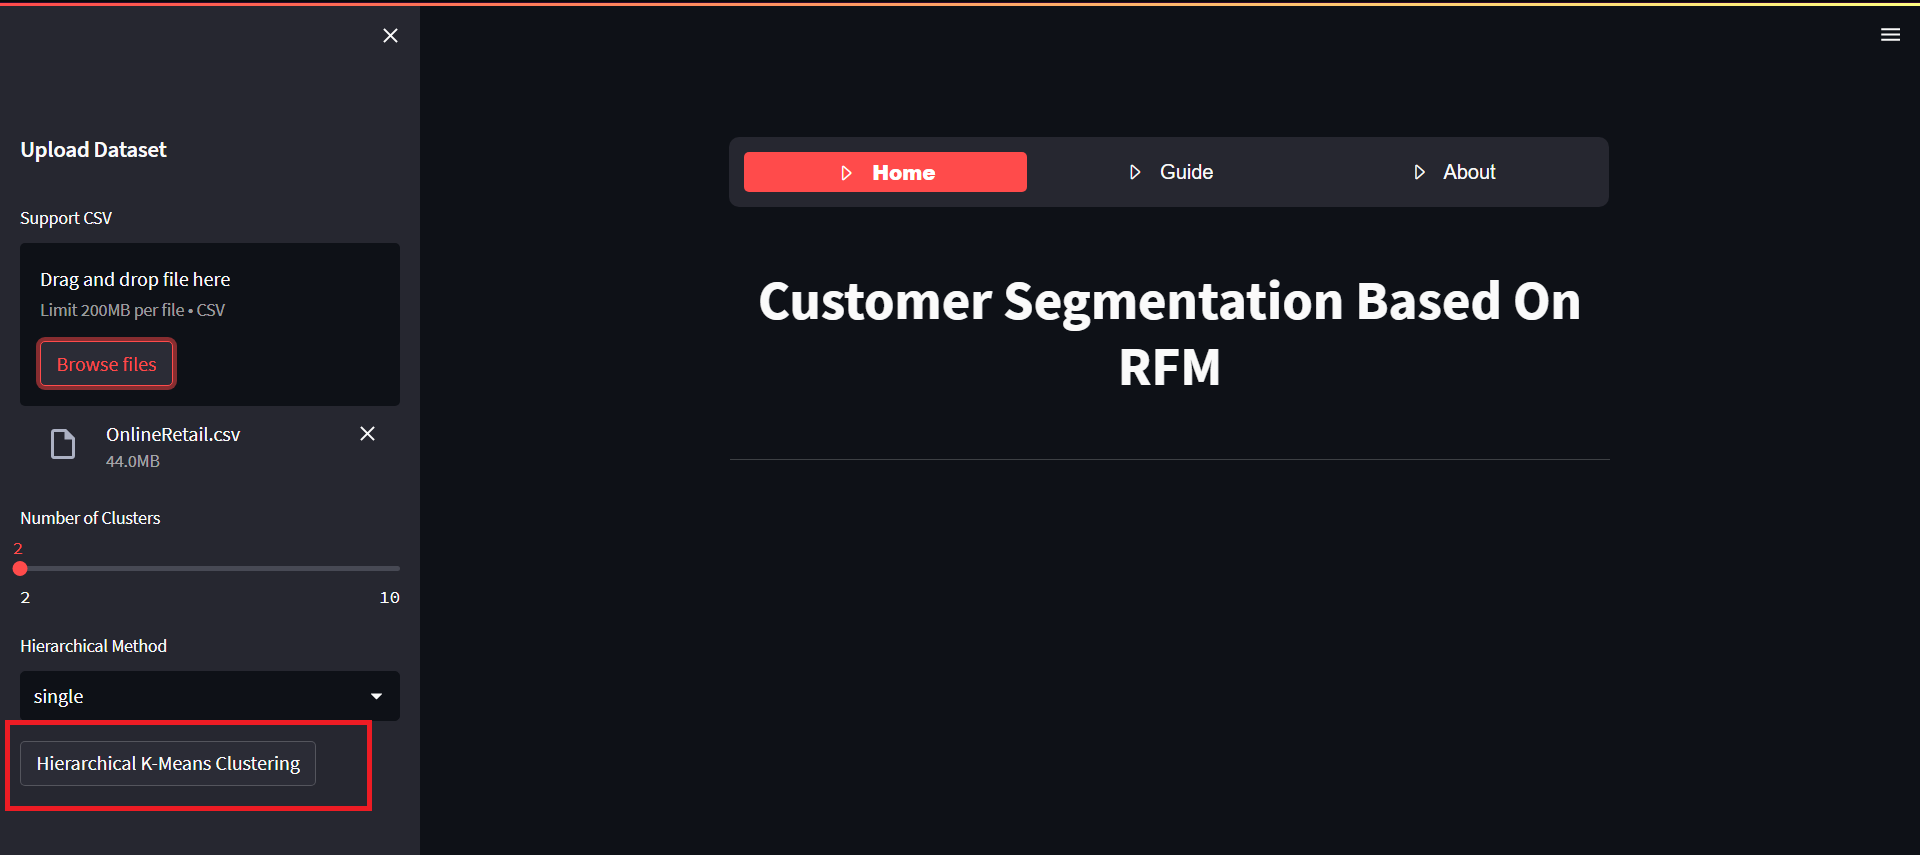
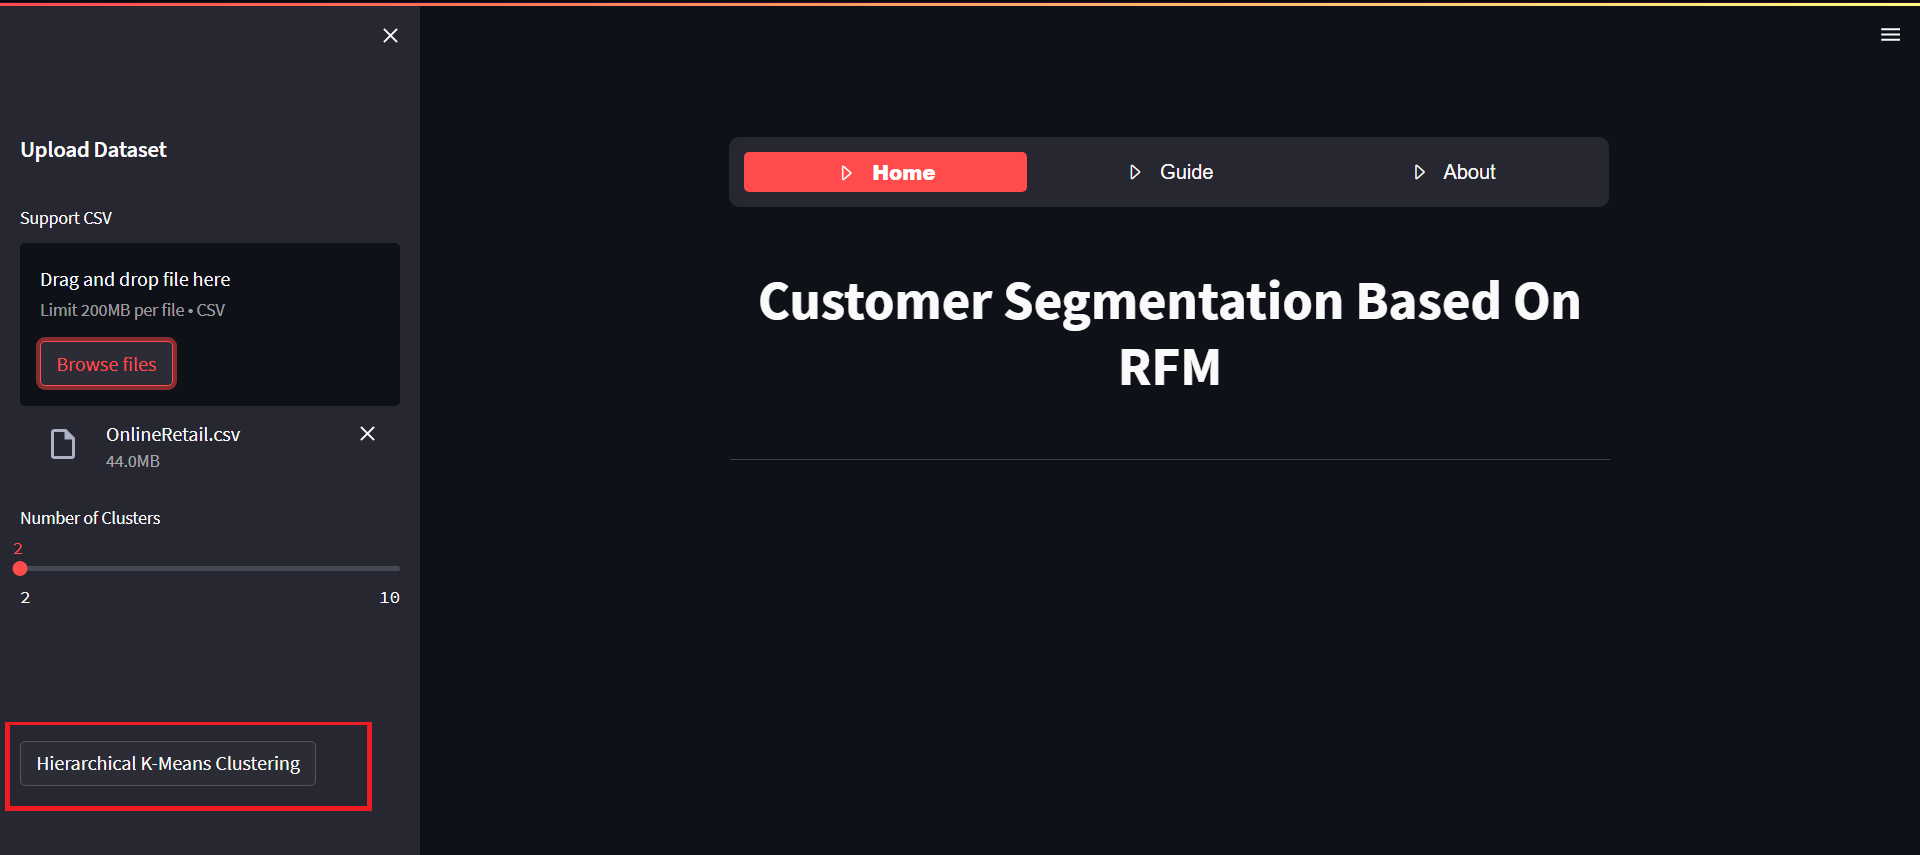
Update Cosmetics and output silhouette

Changed region(s): [[0.0, 0.7298, 0.2188, 0.8515]]

diff --git a/Skripsi.py b/Skripsi.py
@@ -249,7 +249,7 @@ def main():
               cutTree = cut_tree(_hierarchicalClustering, n_clusters=k).reshape(-1,)
 
               # Tab function 
-              tab1, tab2, tab3, tab4 = st.tabs(['Dendogram Hierarchical Clustering', 'Silhouette Score', 'RFM Boxplot', 'RFM Analysis'])
+              tab1, tab2, tab3, tab4 = st.tabs(['Dendrogram Hierarchical Clustering', 'Silhouette Score', 'RFM Boxplot', 'RFM Analysis'])
               # Dendogram
               with tab1:
                 st.header(hierarchical_method + ' Method')
@@ -344,7 +344,7 @@ def main():
                     y_lower = y_upper + 10  # 10 for the 0 samples
                     
                   # st.text("For n_clusters={0}, the silhouette score is {1}".format(num_clusters, silhouette_avg))
-                  ax1.set_title("The silhouette plot for the various clusters.")
+                  ax1.set_title("The silhouette plot for number of clusters {0}.".format(num_clusters))
                   ax1.set_xlabel("The silhouette coefficient values")
                   ax1.set_ylabel("Cluster label")
 
@@ -368,8 +368,12 @@ def main():
                 st.pyplot(fig_Silh) 
 
                 # DataFrame
-                st.dataframe(silhouette_df)
-                 
+                # Hide Index Dataframe
+                st.dataframe(silhouette_df.style.hide(axis='index'))
+                silhouette_max = silhouette_df.iloc[:,1].max()
+                silhouette_opt = silhouette_df.loc[silhouette_df['Silhouette Score'] == silhouette_max]
+                opt_clt = silhouette_opt.iloc[0,0]
+                st.write('Optimal clusters is', str(opt_clt))
 
               # Region show plot
               with tab3:
@@ -476,7 +480,6 @@ def main():
                         mapping_rfm = 'then cluster {0} is Frequent'.format(i)
                     st.write(mapping_rfm)
 
-
               # Region Sidebar continue
               if st.sidebar.checkbox(label = 'Show Data'):
                   st.markdown("""---""")
@@ -486,7 +489,7 @@ def main():
                   # Download output data as csv
                   csv_RFM = convert_df(rfm)
                   st.sidebar.download_button(label = 'Save Data', data=csv_RFM, file_name='RFM_Hkmeans.csv', mime='text/csv')
-
+              
     
     if menu == 'Guide':
       st.markdown("<h2 style='text-align: center;'>User Manual Guide</h2>", unsafe_allow_html=True)
@@ -516,14 +519,8 @@ def main():
       st.image(slider_numClt_img, caption='Slider Number of Clusters')
       st.markdown('<p style="text-align: justify;">The Number of Clusters slider functions to determine the desired number of clusters before carrying out the clustering process. The way to determine the desired cluster is to move the slider point with a value range of 2 to 10</p>', unsafe_allow_html=True)
 
-      # Number of Clusters
-      st.subheader('1.3. Hierarchical Method')
-      hierarchicalMethod_img = ImageOps.expand(Image.open('img/user_manual/hierarchicalMethod.png'), border= 5, fill='white')
-      st.image(hierarchicalMethod_img, caption='Hierarchical Method')
-      st.markdown('<p style="text-align: justify;">There are 4 choices in determining the hierarchical clustering method, namely single(This is also known as the Nearest Point Algorithm), complete(Farthest Point Algorithm or Voor Hees Algorithm), average(This is also called the UPGMA algorithm), and ward(uses the Ward variance minimization algorithm, this is also known as the incremental algorithm)</p>', unsafe_allow_html=True)
-
       # Hierarchical K-Means Clustering
-      st.subheader('1.4. Hierarchical K-Means Clustering')
+      st.subheader('1.3. Hierarchical K-Means Clustering')
       hierarchicalClustering_img = ImageOps.expand(Image.open('img/user_manual/hierarchicalClustering.png'), border= 5, fill='white')
       st.image(hierarchicalClustering_img, caption='Hierarchical K-Means Clustering')
       st.markdown('<p style="text-align: justify;">It is a combination of two algorithms, namely Hierarchical Clustering and K-Means Clustering. By clicking the "Hierarchical K-Means Clustering" button, the application will automatically perform computations starting from validation using Sillhouette Score, data visualization, to determining output results based on RFM mapping.</p>', unsafe_allow_html=True)
@@ -531,7 +528,7 @@ def main():
       st.image(hierarchicalClustering_after_img, caption='After Clicking Hierarchical K-Means Clustering')
 
       # Show Data
-      st.subheader('1.5. Show Data')
+      st.subheader('1.4. Show Data')
       showDataset_img = ImageOps.expand(Image.open('img/user_manual/showDataset.png'), border= 5, fill='white')
       st.image(showDataset_img, caption='Show Data')
       st.markdown('<p style="text-align: justify;">by clicking the "Show Data" checkbox, the user can see the preprocessed and clustered data</p>', unsafe_allow_html=True)
@@ -539,10 +536,10 @@ def main():
       st.image(showDatasetAfter_img, caption='Show Data Result')
 
       # Save Data
-      st.subheader('1.6. Save Data')
+      st.subheader('1.5. Save Data')
       saveDataset_img = ImageOps.expand(Image.open('img/user_manual/saveDataset.png'), border= 5, fill='white')
       st.image(saveDataset_img, caption='Show Data')
-      st.markdown('<p style="text-align: justify;">by clicking the "Save Data" button, the user can download the preprocessed and clustered data</p>', unsafe_allow_html=True)
+      st.markdown('<p style="text-align: justify;">by clicking the "Save Data" button, the user can download the preprocessed and clustered data into csv file</p>', unsafe_allow_html=True)
 
 
     if menu == 'About':
@@ -564,8 +561,6 @@ def main():
 
 
 
-
-
 # Hide Streamlit markdown
 hide_streamlit_style = """
             <style>
@@ -582,6 +577,7 @@ st.markdown("""
     .css-jn99sy {display: none}
     </style>
     """, unsafe_allow_html=True)
+
 
 
 if __name__ == '__main__':
